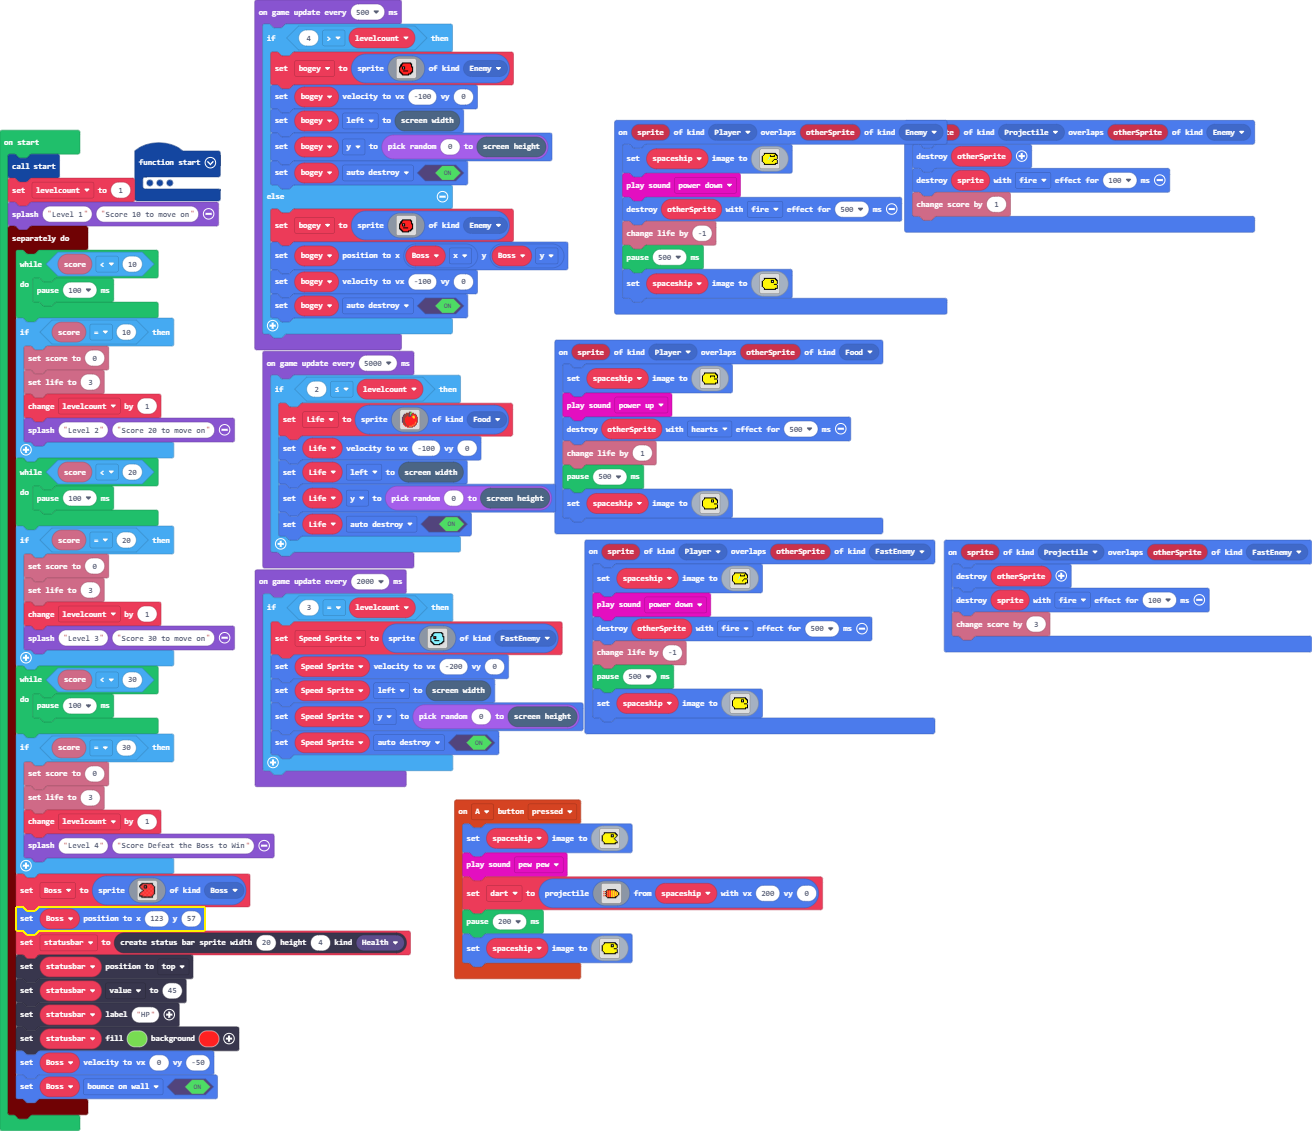
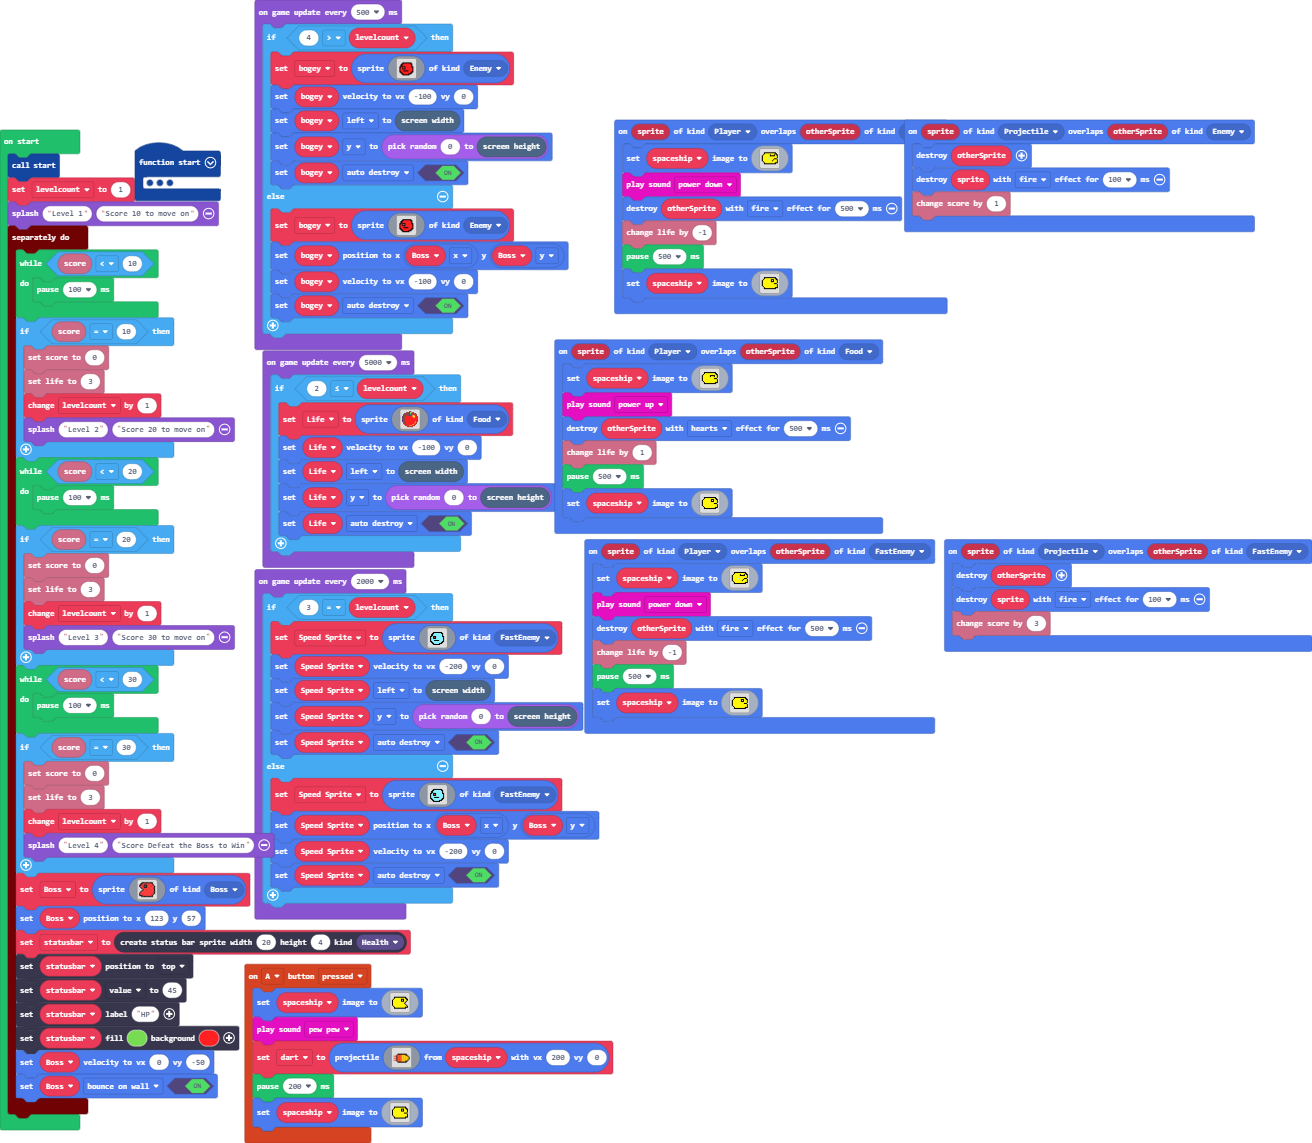
Added Minion Spawning in Boss Battle

Changed region(s): [[0.0, 0.0309, 1.0, 1.0]]

diff --git a/main.ts b/main.ts
@@ -308,6 +308,28 @@ game.onUpdateInterval(2000, function () {
         Speed_Sprite.left = scene.screenWidth()
         Speed_Sprite.y = randint(0, scene.screenHeight())
         Speed_Sprite.setFlag(SpriteFlag.AutoDestroy, true)
+    } else {
+        Speed_Sprite = sprites.create(img`
+            . . . . . . . . . . . . . . . . 
+            . . . . . . . . . . . . . . . . 
+            . . . . f f f f f f f f f . . . 
+            . . . f f 9 9 9 9 9 9 9 f f . . 
+            . . f f 9 9 9 9 9 9 9 9 9 f . . 
+            . . f f 9 9 9 9 9 9 9 9 9 f . . 
+            . f f 9 f f f 9 9 9 9 9 9 f f . 
+            . f 9 9 f 2 f 9 9 9 9 9 9 9 f . 
+            . f 9 9 f f f 9 9 9 9 9 9 9 f . 
+            . f 9 9 9 9 9 9 9 9 9 9 9 9 f . 
+            . f 9 9 9 f f f f f 9 9 9 9 f . 
+            . f f 9 9 9 9 9 9 9 9 9 9 f f . 
+            . . f f 9 9 9 9 9 9 9 9 f f . . 
+            . . . f f 9 9 9 9 9 f f f . . . 
+            . . . . f f f f f f f . . . . . 
+            . . . . . . . . . . . . . . . . 
+            `, SpriteKind.FastEnemy)
+        Speed_Sprite.setPosition(Boss.x, Boss.y)
+        Speed_Sprite.setVelocity(-200, 0)
+        Speed_Sprite.setFlag(SpriteFlag.AutoDestroy, true)
     }
 })
 game.onUpdateInterval(500, function () {
